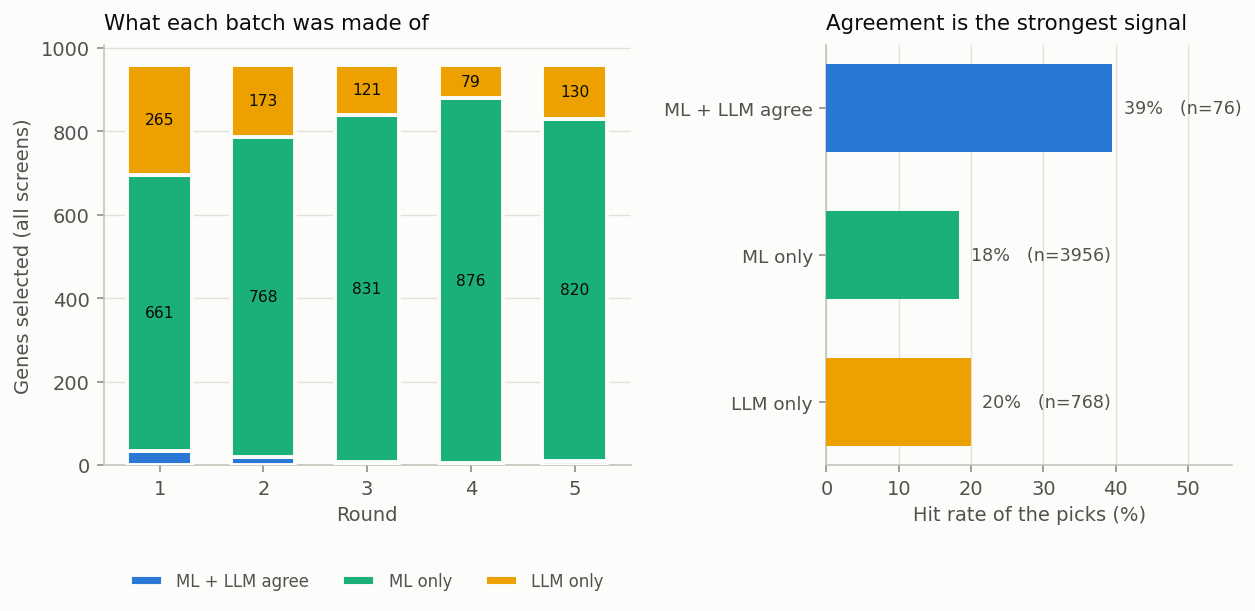
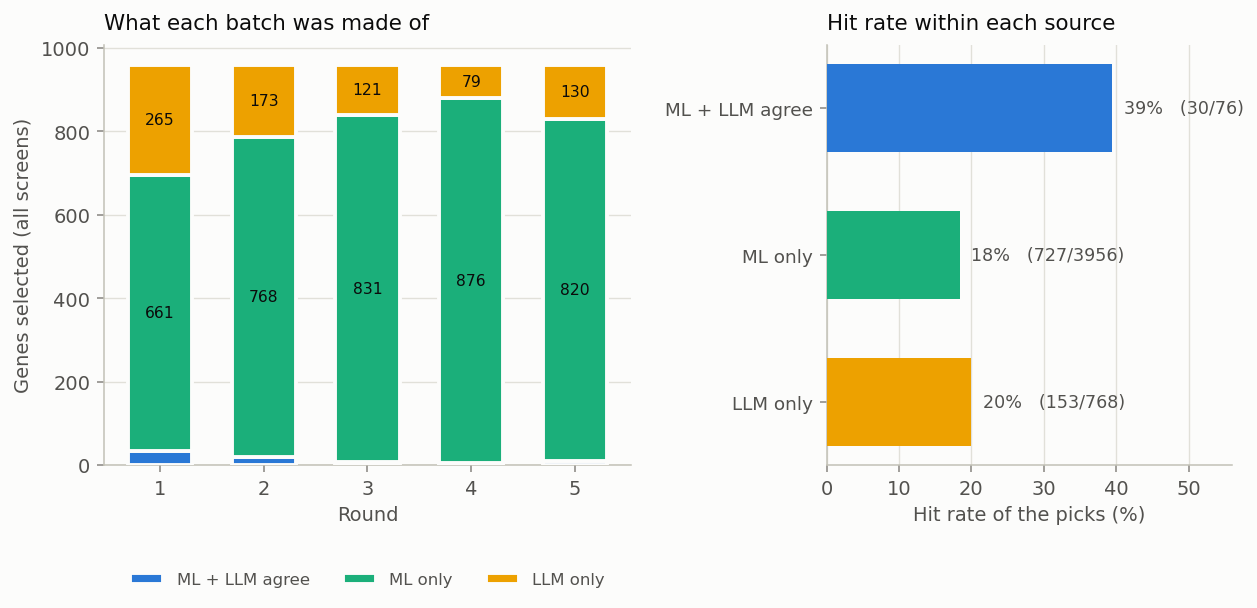
fix(paper): the pooled agreement rate is one screen; lead with the adjusted OR
Figure 5's right panel and tab:attrib presented "ML + LLM agree hits at 39.5%,
roughly twice either source alone" as the strongest verifier evidence, and the
abstract quoted it. Split by screen, K562-GWPS (where the ML alone hits 50%)
supplies 27 of the 76 agreement picks and 22 of their 30 hits; on the other
eight screens agreement hits 16.3% (8/49) against 13.6% ML-only and 17.3%
LLM-only, i.e. it does not lead.

The verifier claim now rests on the screen- and ML-score-adjusted odds ratio
(tab:cond_attrib, 2.39 [1.70, 3.89]), which survives dropping any screen.
Updated: abstract, design-principle paragraph, worked round, tab:attrib caption
and emphasis, Figure 5 caption, the verifier paragraph and its two bullets, the
cond-attrib confound sentence, and two limitations (one claimed the agreement
lead was robust; the other still said the attribution excludes GWPS, stale
since the nine-screen switch, replaced by the one-traced-campaign caveat).

tab:attrib's caption said macro rates use "screens with >= 10 picks"; the
reported 25.6/18.2/24.5 are means over all nine screens (with the >= 10 rule
agreement would be 43.5% over two screens). Caption now says what was done.

Figure 5 right panel: the title "Agreement is the strongest signal" was baked
into the image; now a neutral title, and bars are labelled hits/picks so a long
bar resting on 76 genes is visible as such.

diff --git a/waddington_select/analysis/explain.py b/waddington_select/analysis/explain.py
@@ -71,11 +71,14 @@ def attribution(trace: dict, out: Path, tag: str = "") -> Path:
     rates = [agg[s]["hit_rate"] * 100 for s in SOURCES]
     ax2.barh(y, rates, height=0.6, color=[S.SOURCE_COLOR[s] for s in SOURCES], zorder=3)
     for yi, s, v in zip(y, SOURCES, rates):
-        ax2.annotate(f"{v:.0f}%   (n={agg[s]['picked']})", (v, yi), xytext=(6, 0),
+        # hits/picked, not just n: a long bar can rest on very few genes, and readers otherwise take the
+        # bar for the bucket's share of all hits
+        ax2.annotate(f"{v:.0f}%   ({agg[s]['hits']}/{agg[s]['picked']})", (v, yi), xytext=(6, 0),
                      textcoords="offset points", va="center", fontsize=9, color=S.INK_2)
     ax2.set_yticks(y, [S.SOURCE_LABEL[s] for s in SOURCES], fontsize=9.5)
     ax2.set_xlabel("Hit rate of the picks (%)")
-    ax2.set_title("Agreement is the strongest signal", color=S.INK, fontsize=11, loc="left", pad=8)
+    # A neutral title on purpose: the pooled "agreement is strongest" reading is carried by one screen.
+    ax2.set_title("Hit rate within each source", color=S.INK, fontsize=11, loc="left", pad=8)
     ax2.set_xlim(0, max(rates) * 1.42 if max(rates) else 1)
     ax2.grid(axis="y", visible=False)
 
